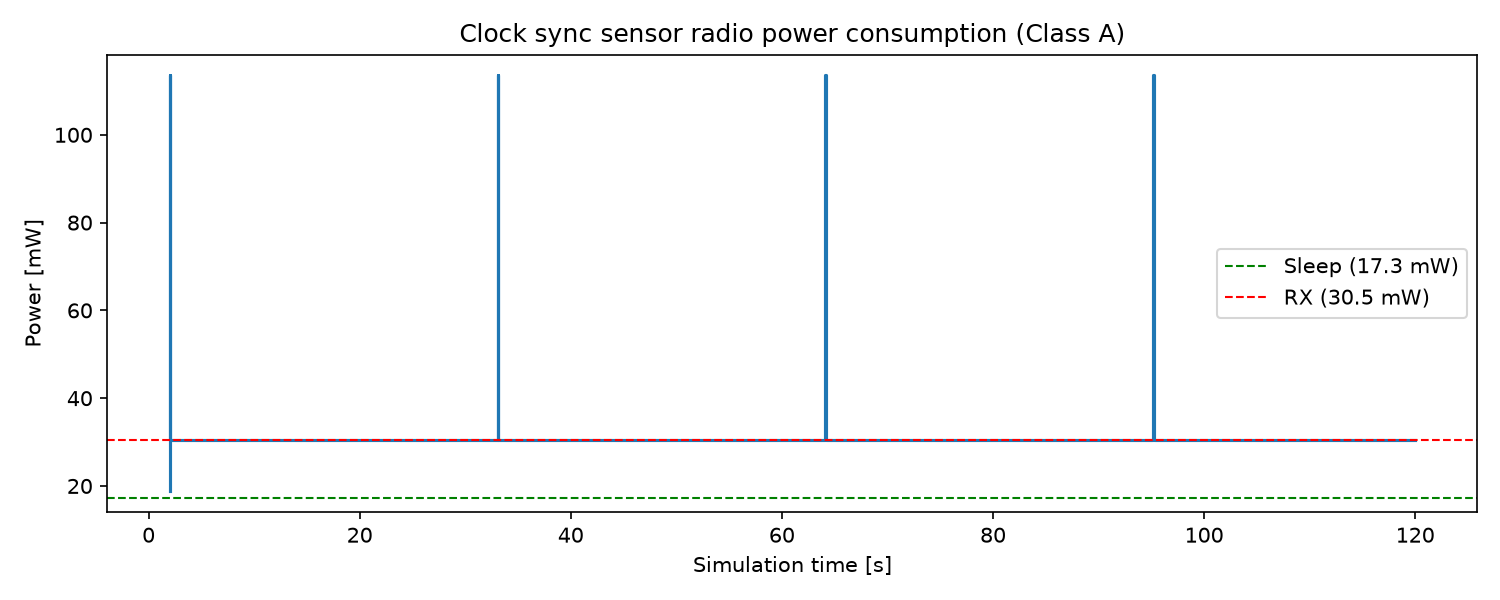
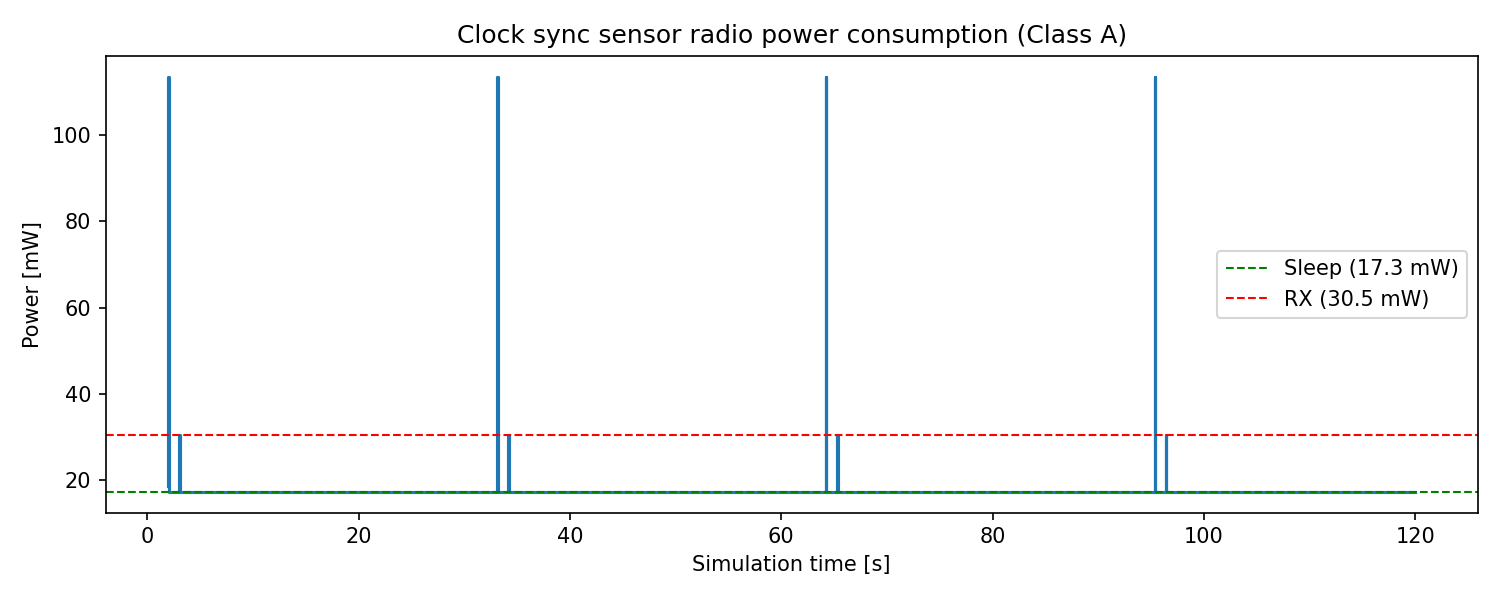
Fixed class A device listening continuously

diff --git a/simulator/lorawan/device.py b/simulator/lorawan/device.py
@@ -6,6 +6,7 @@ from dataclasses import dataclass, field
 
 from simulator.environment import simulation_env as sim
 from simulator.lora.client_radio import LoraClientRadio
+from simulator.lora.enums.radio_state import RadioState
 from simulator.lora.packet import LoraPacket
 from simulator.lorawan.application import Application
 from simulator.lorawan.enums.frame_types import MType
@@ -26,7 +27,8 @@ from simulator.lorawan.mac_commands import (
 )
 from simulator.lorawan.beacon import decode_beacon, compute_ping_slot_times
 from simulator.lorawan.region import (
-    EU868_DATA_RATES, RECEIVE_DELAY1, RECEIVE_DELAY2, MAX_FCNT,
+    EU868_DATA_RATES, RECEIVE_DELAY1, RECEIVE_DELAY2, RX_WINDOW_DURATION,
+    RX_WINDOW_GUARD, MAX_FCNT,
     JOIN_ACCEPT_DELAY1, JOIN_ACCEPT_DELAY2,
     BEACON_INTERVAL, BEACON_RESERVED, BEACON_GUARD,
     PING_SLOT_LEN, CLASS_B_DEFAULT_PING_NB, MAX_BEACON_LESS_PERIOD,
@@ -135,6 +137,8 @@ class LoRaWanDevice:
         """
         old_mode = self.operating_mode
         self.operating_mode = mode
+        # Whether the receiver stays on between windows depends on the mode.
+        self._configure_radio()
         logger.debug(
             f"{sim.current_time():.2f}s  DEVICE  mode {old_mode.value} -> {mode.value}"
         )
@@ -152,11 +156,15 @@ class LoRaWanDevice:
             await self._start_class_c_rx()
 
     def _configure_radio(self) -> None:
-        """Configure the radio for the current data rate."""
+        """Configure the radio for the current data rate and operating mode."""
         dr = EU868_DATA_RATES[self.data_rate]
         self.radio.set_rx_config(
             spreading_factor=dr.spreading_factor.value,
             bandwidth=dr.bandwidth.to_khz(),
+            # Only Class C devices keep their receiver running between windows. Class A and
+            # Class B open short single shot windows instead, so their radio has to drop back
+            # out of RX on its own once a packet arrives or a transmission finishes.
+            rx_continuous=self.operating_mode == OperatingMode.CLASS_C,
         )
         self.radio.set_tx_config(
             power=self.tx_power,
@@ -186,33 +194,29 @@ class LoRaWanDevice:
 
         await self.radio.transmit_data_blocking(raw)
 
+        tx_end = self.radio.tx_end_time
+        assert tx_end is not None, "Join accept windows opened without a JoinRequest"
+        await self.radio.off()
+
         # RX1 window at JOIN_ACCEPT_DELAY1
-        await sim.sleep(JOIN_ACCEPT_DELAY1)
-        try:
-            result = await self.radio.receive_data_within(0.5)
-            assert isinstance(result, LoraPacket)
+        result = await self._rx_window(tx_end + JOIN_ACCEPT_DELAY1, RX_WINDOW_DURATION)
+        if result is not None:
             join_result = process_join_accept(
                 result.payload, self._otaa_credentials, dev_nonce,
             )
             if join_result is not None:
                 self._activate_from_join(join_result)
                 return True
-        except TimeoutError:
-            pass
 
         # RX2 window at JOIN_ACCEPT_DELAY2
-        await sim.sleep(JOIN_ACCEPT_DELAY2 - JOIN_ACCEPT_DELAY1 - 0.5)
-        try:
-            result = await self.radio.receive_data_within(0.5)
-            assert isinstance(result, LoraPacket)
+        result = await self._rx_window(tx_end + JOIN_ACCEPT_DELAY2, RX_WINDOW_DURATION)
+        if result is not None:
             join_result = process_join_accept(
                 result.payload, self._otaa_credentials, dev_nonce,
             )
             if join_result is not None:
                 self._activate_from_join(join_result)
                 return True
-        except TimeoutError:
-            pass
 
         logger.warning(
             f"{sim.current_time():.2f}s  DEVICE  Join failed (no JoinAccept received)"
@@ -310,27 +314,70 @@ class LoRaWanDevice:
             return await self._class_c_rx_windows()
         return False
 
-    async def _class_a_rx_windows(self) -> bool:
-        """Class A: two short RX windows after uplink."""
-        # RX1
-        await sim.sleep(RECEIVE_DELAY1)
-        try:
-            result = await self.radio.receive_data_within(0.5)
-            assert isinstance(result, LoraPacket)
-            await self._process_downlink(result.payload)
-            return True
-        except TimeoutError:
-            pass
+    async def _rx_window(self, open_at: float, duration: float) -> LoraPacket | None:
+        """
+            Sleep until a receive window, hold it open, and power the radio back down after.
 
-        # RX2
-        await sim.sleep(RECEIVE_DELAY2 - RECEIVE_DELAY1 - 0.5)
+            The radio is only ever in RX for the duration of the window itself. A Class A or
+            Class B device has no reason to keep its receiver powered outside of its windows, and
+            leaving it on is what used to make these devices draw continuous RX power for the
+            whole simulation.
+
+            :param open_at: Simulation timestamp at which the radio should be listening.
+            :param duration: In seconds, how long to keep the window open.
+            :returns: The received packet, or None when the window closed empty.
+        """
+        # Wake up the radio slightly before the window opens, to account for startup time and
+        # clock drift.
+        wake_at = open_at - RX_WINDOW_GUARD - self.radio.power_profile.standby_startup_time()
+        if wake_at > sim.current_time():
+            await sim.sleep_until(wake_at)
+        await self.radio.standby()
+
         try:
-            result = await self.radio.receive_data_within(0.5)
+            try:
+                result = await self.radio.receive_data_within(duration + RX_WINDOW_GUARD)
+            except TimeoutError:
+                # The window only bounds how long the device waits for a preamble to show up.
+                # Once it has locked onto one it keeps the receiver on until the frame is over,
+                # so a downlink that starts just before the window closes still gets received.
+                if not self.radio.carrier_sense_instant():
+                    return None
+                await self.radio.wait_for_channel_idle()
+                result = await self.radio.receive_data_nowait()
+                if result is None:
+                    return None
             assert isinstance(result, LoraPacket)
+            return result
+        finally:
+            if self.radio.get_state() != RadioState.TX:
+                await self.radio.off()
+
+    async def _class_a_rx_windows(self) -> bool:
+        """
+            Class A: two short RX windows after an uplink, radio asleep in between.
+
+            Outside of the two windows the radio goes back to its lowest power state, which is
+            what gives a Class A device its characteristic burst shaped power trace.
+        """
+        # Both windows are timed from the end of the uplink's air time, not from where we are
+        # now: the radio also spends time transitioning out of TX before handing control back.
+        tx_end = self.radio.tx_end_time
+        assert tx_end is not None, "Receive windows opened without a preceding transmission"
+
+        # The transmitter drops into standby when the uplink finishes, from where the radio can
+        # go all the way back to sleep until RX1 opens.
+        await self.radio.off()
+
+        result = await self._rx_window(tx_end + RECEIVE_DELAY1, RX_WINDOW_DURATION)
+        if result is not None:
             await self._process_downlink(result.payload)
             return True
-        except TimeoutError:
-            pass
+
+        result = await self._rx_window(tx_end + RECEIVE_DELAY2, RX_WINDOW_DURATION)
+        if result is not None:
+            await self._process_downlink(result.payload)
+            return True
 
         return False
 
@@ -340,10 +387,10 @@ class LoRaWanDevice:
         The background Class C RX task handles unsolicited downlinks between
         uplinks. This method only handles the RX1 window after a TX.
         """
-        # RX1 window (same as Class A)
+        # RX1 window (same as Class A, except the receiver never powers down)
         await sim.sleep(RECEIVE_DELAY1)
         try:
-            result = await self.radio.receive_data_within(0.5)
+            result = await self.radio.receive_data_within(RX_WINDOW_DURATION)
             assert isinstance(result, LoraPacket)
             await self._process_downlink(result.payload)
             return True
@@ -604,7 +651,6 @@ class LoRaWanDevice:
         reverts to Class A (beacon sync lost).
         """
         missed_beacons = 0
-        await self.radio.receive(continuous=True)
 
         while sim.is_running() and not self._class_b_stop.is_set():
             # If we have timing info, sleep until just before the expected
@@ -619,11 +665,14 @@ class LoRaWanDevice:
                     await sim.sleep_until(wake_at)
 
             try:
-                await self.radio.receive(continuous=True)
-                result = await self.radio.receive_data_within(
-                    BEACON_RESERVED + 2.0
+                # A beacon window is a single shot window like any other: `receive(continuous=
+                # True)` would latch the radio into Class C style continuous RX and leave it
+                # there for the rest of the simulation.
+                result = await self._rx_window(
+                    sim.current_time(), BEACON_RESERVED + 2.0
                 )
-                assert isinstance(result, LoraPacket)
+                if result is None:
+                    raise TimeoutError
                 beacon_time = decode_beacon(result.payload)
                 if beacon_time is None:
                     continue  # Not a beacon frame; keep listening
@@ -682,16 +731,14 @@ class LoRaWanDevice:
             if slot_time <= sim.current_time():
                 continue  # Already past this slot
 
-            await sim.sleep_until(slot_time)
-
             try:
-                result = await self.radio.receive_data_within(PING_SLOT_LEN)
-                assert isinstance(result, LoraPacket)
+                result = await self._rx_window(slot_time, PING_SLOT_LEN)
+                if result is None:
+                    continue  # Nothing in this slot
                 # Ignore beacon frames that leak into ping slot windows
                 if decode_beacon(result.payload) is not None:
                     continue
                 await self._process_downlink(result.payload)
-            except (TimeoutError, RuntimeError):
-                # TimeoutError: no data in this slot
-                # RuntimeError: radio busy (e.g., concurrent uplink TX)
+            except RuntimeError:
+                # Radio busy (e.g., concurrent uplink TX)
                 pass

diff --git a/simulator/lora/radio.py b/simulator/lora/radio.py
@@ -58,6 +58,10 @@ class LoraRadio(ABC):
 
     _tx_config: LoraConfig
     _tx_power: int = 14  # in dBm
+
+    # Simulation time at which the last transmission's final symbol left the antenna, None until
+    # the radio has transmitted anything.
+    _tx_end_time: float|None = None
     # __tx_freq_hop_enable: bool = False
     # __tx_freq_hop_period: int = 0
     # __tx_timeout: int = 3_000  # in milliseconds
@@ -151,6 +155,18 @@ class LoraRadio(ABC):
     @property
     def tx_power(self) -> int:
         return self._tx_power
+
+    @property
+    def tx_end_time(self) -> float|None:
+        """
+            Simulation time at which the last transmission's final symbol left the antenna, or
+            None if the radio has not transmitted yet.
+
+            Upper layers need this to time their receive windows: `transmit_data_blocking` only
+            returns once the radio has also finished its (time consuming) transition out of TX,
+            which is a little after the air time itself ended.
+        """
+        return self._tx_end_time
 
     @property
     def tx_frequency(self) -> int:
@@ -328,7 +344,8 @@ class LoraRadio(ABC):
             if metadata: 
                 return (packet, meta)
             return packet
-        except asyncio.QueueEmpty:
+        except asyncio.TimeoutError:
+            # An empty queue times out immediately, it does not raise QueueEmpty.
             return None
 
 
@@ -463,6 +480,10 @@ class LoraRadio(ABC):
 
         phy_layer = LoraPhyLayer()
         airtime = await phy_layer.transmit_packet_blocking(self, packet)
+
+        # Record the end of the air time before transitioning out of TX, the transition itself
+        # costs simulation time that upper layers must not count towards their receive windows.
+        self._tx_end_time = sim.current_time()
 
         if self._rx_continuous:
             self._set_state(RadioState.RX)

diff --git a/simulator/lorawan/gateway.py b/simulator/lorawan/gateway.py
@@ -8,7 +8,7 @@ from simulator.lora.packet import LoraPacket
 from simulator.lorawan.beacon import encode_beacon, compute_ping_slot_times
 from simulator.lorawan.network_server import NetworkServer
 from simulator.lorawan.region import (
-    EU868_DATA_RATES,
+    EU868_DATA_RATES, RECEIVE_DELAY1,
     BEACON_INTERVAL, BEACON_RESERVED, BEACON_GUARD,
 )
 
@@ -75,6 +75,9 @@ class LoRaWanGateway:
                 return
 
             assert isinstance(result, LoraPacket)
+            # The radio hands the frame over as soon as its last symbol lands, so this is
+            # effectively the end of the uplink (bar a few ticks of processing delay).
+            uplink_end = sim.current_time()
             raw_uplink = result.payload
             self.frames_forwarded += 1
 
@@ -86,10 +89,10 @@ class LoRaWanGateway:
             downlink_raw = await self.network_server.handle_uplink(raw_uplink)
 
             if downlink_raw is not None:
-                # Transmit downlink in RX1 window
-                # The device expects the downlink RECEIVE_DELAY1 after its TX ended.
-                # By now, some processing time has passed. We transmit immediately —
-                # the device's RX window should still be open.
+                # Transmit the downlink in the device's RX1 window, which opens exactly
+                # RECEIVE_DELAY1 after the uplink ended. Sending it any earlier only reaches
+                # devices that (incorrectly) leave their receiver on between windows.
+                await sim.sleep_until(uplink_end + RECEIVE_DELAY1)
                 logger.debug(
                     f"{sim.current_time():.2f}s  GW  sending downlink ({len(downlink_raw)} bytes)"
                 )

diff --git a/simulator/lorawan/region.py b/simulator/lorawan/region.py
@@ -54,6 +54,12 @@ RECEIVE_DELAY2 = 2   # RX2 opens 2 seconds after TX end (RECEIVE_DELAY1 + 1)
 # as the minimum, but in practice a fixed value works for simulation.
 RX_WINDOW_DURATION = 0.5
 
+# How early a device starts listening before a receive window's nominal opening time (seconds).
+# A device that only starts listening at the nominal time would miss a downlink that is exactly
+# on time, because the radio still needs to come out of sleep. Real devices also use this margin
+# to absorb clock drift between themselves and the network.
+RX_WINDOW_GUARD = 0.005
+
 # Join-accept delays
 JOIN_ACCEPT_DELAY1 = 5  # seconds
 JOIN_ACCEPT_DELAY2 = 6  # seconds
